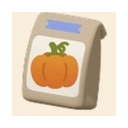
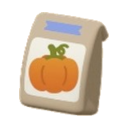
fix: かぼちゃの種アイコンの背景を透過 (#408)
Claude-Session: https://claude.ai/code/session_01K3eMRAeT6oYS9BRu22swvm

diff --git a/service-worker.js b/service-worker.js
@@ -1,5 +1,5 @@
 // キャッシュ名（更新時はバージョンを上げる）
-const CACHE_NAME = "hatopi-v2.549.0";
+const CACHE_NAME = "hatopi-v2.550.0";
 
 // キャッシュするファイル一覧
 const CACHE_FILES = [
